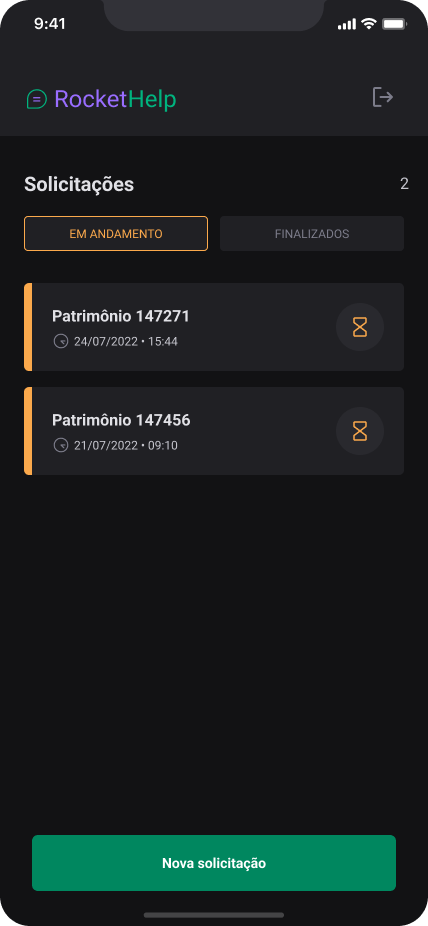
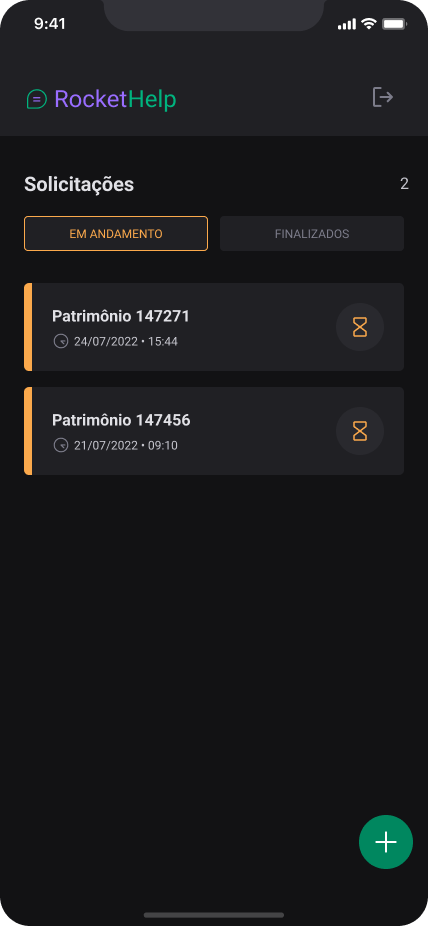
Ajustes no layout e adição do Fab button

Changed region(s): [[0.0607, 0.8769, 0.972, 0.9676]]

diff --git a/rockethelp/src/screens/Details.tsx b/rockethelp/src/screens/Details.tsx
@@ -1,10 +1,10 @@
 import { useEffect, useState } from 'react'
 import { Alert } from 'react-native';
-import { VStack, Text, HStack, useTheme, ScrollView, Box, IconButton } from 'native-base';
+import { VStack, Text, HStack, useTheme, ScrollView, Box, Center } from 'native-base';
 import { useNavigation, useRoute } from '@react-navigation/native'
 import firestore from '@react-native-firebase/firestore'
 import { OrderFirestoreDTO } from '../DTOs/OrderFirestoreDTO';
-import { CircleWavyCheck, Hourglass, DesktopTower, Clipboard, Trash } from 'phosphor-react-native'
+import { CircleWavyCheck, Hourglass, DesktopTower, Clipboard } from 'phosphor-react-native'
 
 import Toast from 'react-native-toast-message'
 import { dateFormat } from '../utils/firestoreDateFormat';
@@ -73,7 +73,7 @@ export function Details() {
                     style: "cancel"
                 },
                 {
-                    text: "Sim", onPress: () => {
+                    text: "Reabrir", onPress: () => {
                         firestore()
                             .collection<OrderFirestoreDTO>('orders')
                             .doc(order.id)
@@ -162,8 +162,8 @@ export function Details() {
 
     return (
         <VStack flex={1} bg="gray.700">
-            <Box px={6} bg="gray.600" borderBottomWidth={1} borderBottomColor={order.status === 'closed' ? colors.green[300] : colors.secondary[700]}>
-                <Header title='Solicitação' />
+            <Box bg="gray.600" borderBottomWidth={1} borderBottomColor={order.status === 'closed' ? colors.green[300] : colors.secondary[700]}>
+                <Header title='Solicitação' showTrashIcon onTrashPress={handleOrderDelete} />
             </Box>
 
             <HStack bg="gray.500" justifyContent="center" p={4}>
@@ -217,32 +217,20 @@ export function Details() {
                 </CardDetails>
             </ScrollView>
 
-            <HStack space={20} mt={10} mb={2} mx={5}>
-                <IconButton
-                    icon={<Trash size={26} color={colors.white} />}
-                    rounded='sm'
-                    variant='solid'
-                    bg='red.900'
-                    px={3}
-                    _pressed={{ bg: 'red.500' }}
-                    onPress={handleOrderDelete}
-                />
-
+            <Center mt={10} mb={2} mx={5}>
                 {
                     order.status === 'open' ?
                         <Button
                             title='Encerrar'
-                            flex={1}
                             onPress={handleOrderClose}
                         />
                         :
                         <Button
                             title='Reabrir'
-                            flex={1}
                             onPress={handleOrderReopen}
                         />
                 }
-            </HStack>
+            </Center>
         </VStack>
     );
 }

diff --git a/rockethelp/src/screens/Home.tsx b/rockethelp/src/screens/Home.tsx
@@ -2,9 +2,9 @@ import { useState, useEffect } from 'react'
 import { Alert } from 'react-native'
 import auth from '@react-native-firebase/auth'
 import firestore from '@react-native-firebase/firestore'
-import { useNavigation } from '@react-navigation/native'
-import { HStack, IconButton, VStack, useTheme, Text, Heading, FlatList, Center } from 'native-base';
-import { SignOut } from 'phosphor-react-native'
+import { useNavigation, useIsFocused } from '@react-navigation/native'
+import { HStack, IconButton, VStack, useTheme, Text, Heading, FlatList, Center, Icon } from 'native-base';
+import { Plus, SignOut } from 'phosphor-react-native'
 import { ChatTeardropText } from 'phosphor-react-native'
 
 import { dateFormat } from '../utils/firestoreDateFormat'
@@ -12,7 +12,7 @@ import { dateFormat } from '../utils/firestoreDateFormat'
 import Logo from '../assets/logo_secondary.svg'
 
 import { Filter } from '../components/Filter'
-import { Button } from '../components/Button'
+import { AddFabButton } from '../components/AddFabButton'
 import { Loading } from '../components/Loading'
 import { Order, OrderProps } from '../components/Order'
 
@@ -23,6 +23,8 @@ export function Home() {
     const [orders, setOrders] = useState<OrderProps[]>([])
 
     const navigation = useNavigation()
+    const isFocused = useIsFocused();
+
     const { colors } = useTheme()
 
     function handleNewOrder() {
@@ -150,7 +152,7 @@ export function Home() {
                         />
                 }
 
-                <Button title="Nova solicitação" mt={3} onPress={handleNewOrder} />
+                {isFocused ? <AddFabButton icon={<Icon as={<Plus color="white" />} />} onPress={handleNewOrder} /> : null}
             </VStack>
         </VStack>
     );

diff --git a/rockethelp/src/components/Header.tsx b/rockethelp/src/components/Header.tsx
@@ -1,12 +1,14 @@
 import { Heading, HStack, IconButton, useTheme, StyledProps } from 'native-base';
-import { CaretLeft } from 'phosphor-react-native'
+import { CaretLeft, Trash } from 'phosphor-react-native'
 import { useNavigation } from '@react-navigation/native'
 
 type Props = StyledProps & {
     title: string
+    showTrashIcon?: boolean
+    onTrashPress?: any
 }
 
-export function Header({ title, ...rest }: Props) {
+export function Header({ title, showTrashIcon, onTrashPress, ...rest }: Props) {
     const { colors } = useTheme()
     const navigation = useNavigation()
 
@@ -25,13 +27,31 @@ export function Header({ title, ...rest }: Props) {
             {...rest}
         >
             <IconButton
+                w='15%'
                 icon={<CaretLeft color={colors.gray[200]} size={24} />}
+                rounded={100}
                 onPress={handleGoBack}
             />
 
-            <Heading color="gray.100" textAlign="center" fontSize="lg" flex={1} ml={-6}>
+            <Heading
+                color="gray.100"
+                textAlign="center"
+                fontSize="lg"
+                flex={1}
+                ml={showTrashIcon ? '0' : '-8'}
+            >
                 {title}
             </Heading>
+
+            {
+                showTrashIcon &&
+                <IconButton
+                    icon={<Trash color={colors.gray[200]} size={24} />}
+                    mr={2}
+                    rounded={100}
+                    onPress={onTrashPress}
+                />
+            }
         </HStack>
     );
 }

diff --git a/rockethelp/src/screens/Register.tsx b/rockethelp/src/screens/Register.tsx
@@ -1,6 +1,6 @@
 import { useState } from 'react';
 import { KeyboardAvoidingView, TouchableWithoutFeedback, Keyboard, Platform, Alert } from 'react-native';
-import { VStack } from 'native-base';
+import { Center, VStack } from 'native-base';
 import { useNavigation } from '@react-navigation/native'
 import firestore from '@react-native-firebase/firestore'
 import Toast from 'react-native-toast-message'
@@ -76,12 +76,14 @@ export function Register() {
                         onChangeText={setDescription}
                     />
 
-                    <Button
-                        title='Cadastrar'
-                        mt={5}
-                        isLoading={isLoading}
-                        onPress={handleNewOrderRegister}
-                    />
+                    <Center>
+                        <Button
+                            title='Cadastrar'
+                            mt={5}
+                            isLoading={isLoading}
+                            onPress={handleNewOrderRegister}
+                        />
+                    </Center>
                 </VStack>
             </TouchableWithoutFeedback>
         </KeyboardAvoidingView>

diff --git a/rockethelp/src/components/AddFabButton.tsx b/rockethelp/src/components/AddFabButton.tsx
@@ -1,0 +1,18 @@
+import { Fab, IFabProps, Icon, Container } from 'native-base';
+
+type Props = IFabProps & {
+    icon: any
+}
+
+export function AddFabButton({ icon, ...rest }: Props) {
+    return (
+        <Container h={0} w={100}>
+            <Fab
+                bg="green.700"
+                _pressed={{ bg: "green.500" }}
+                icon={icon}
+                {...rest}
+            />
+        </Container>
+    );
+}

diff --git a/rockethelp/src/components/Button.tsx b/rockethelp/src/components/Button.tsx
@@ -8,9 +8,10 @@ export function Button({ title, ...rest }: Props) {
     return (
         <ButtonNativeBase
             bg="green.700"
-            h={14}
+            h={12}
             fontSize="sm"
-            rounded="sm"
+            px={10}
+            rounded={100}
             _pressed={{ bg: "green.500" }}
             {...rest}
         >

diff --git a/rockethelp/src/screens/SignIn.tsx b/rockethelp/src/screens/SignIn.tsx
@@ -84,7 +84,9 @@ export function SignIn() {
 
                     <Button
                         title="Entrar"
+                        h={14}
                         w="full"
+                        rounded='sm'
                         onPress={handleSignIn}
                         isLoading={isLoading}
                     />
